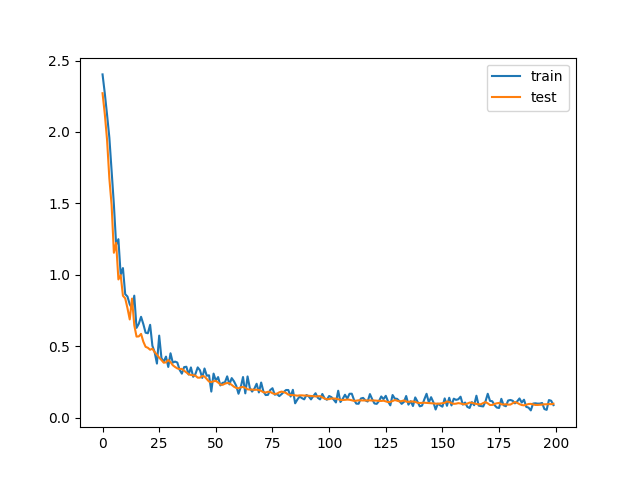
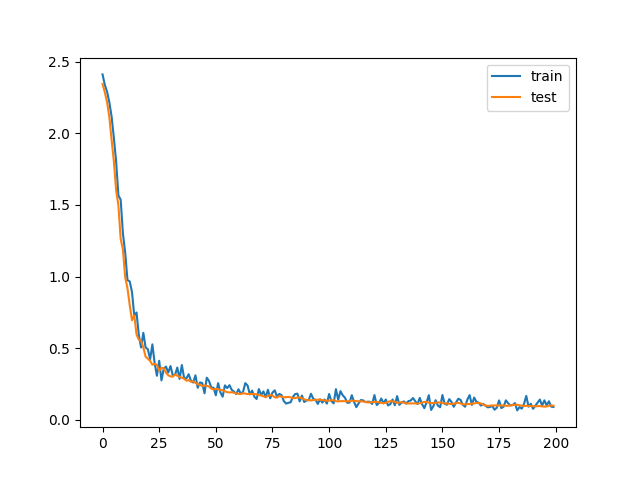
updated some internal functionality

diff --git a/network/core.py b/network/core.py
@@ -36,7 +36,7 @@ class Layer(ABC):
         pass
 
     @abstractmethod
-    def update_weights(self, dZ, optimizer, activation_next=None):
+    def update_weights(self, dZ, optimizer):
         pass
 
     @abstractmethod
@@ -64,18 +64,23 @@ class DenseLayer(Layer):
         return self.weights_initializer(prev_size, self.layer_size, (self.layer_size, prev_size)), \
                self.bias_initializer(self.layer_size, size=None)
 
-    def update_weights(self, dZ, optimizer, activation_next=None):
-        gradW, gradb, gradZ = self.get_gradients(dZ, activation_next=activation_next)
+    def update_weights(self, dZ, optimizer):
+        derivative = dZ
+        if self.activation_name == 'softmax':
+            pass
+        elif self.activation is not None:
+            derivative *= self.activation.derivative(self.cache[1])
+
+        gradW, gradb, gradZ = self.get_gradients(derivative)
         parameters = optimizer.apply_gradients(self.name, {'gradW': gradW, 'gradb': gradb})
         self.weights += parameters['gradW']
         self.bias += parameters['gradb']
         return gradZ
 
-    def get_gradients(self, dZ, activation_next=None):
+    def get_gradients(self, dZ):
         db = (1 / self.cache[0].shape[1]) * dZ.sum(axis=1)
         dW = (1 / self.cache[0].shape[1]) * (dZ @ self.cache[0].T)
-        derivative_values = activation_next.derivative(self.cache[0]) if activation_next is not None else self.cache[0]
-        next_dZ = (self.weights.T @ dZ) * derivative_values
+        next_dZ = (self.weights.T @ dZ)
         return dW, db, next_dZ
 
     def __call__(self, inputs):
@@ -84,9 +89,11 @@ class DenseLayer(Layer):
             self.weights, self.bias = self.build_weights(prev_size)
 
         h = (self.weights @ inputs) + self.bias[:, None]
-        self.cache = (inputs, h)
+
         result = h if (self.activation_name is None or self.activation_name not in AVAILABLE_ACTIVATIONS) \
             else self.activation(h)
+        self.cache = (inputs, result)
+
         return result
 
     def __str__(self):
@@ -132,14 +139,16 @@ class Conv2DLayer(Layer):
 
         Z = np.einsum('ijklmn, ojmn -> iokl', windows, self.weights)  # свёртка входных данных с фильтром
         Z += self.bias[None, :, None, None]
-        self.cache = (windows, inputs)
+
         result = Z if (self.activation_name is None or self.activation_name not in AVAILABLE_ACTIVATIONS) \
             else self.activation(Z)
+
+        self.cache = (windows, inputs, result)
         return result
 
-    def get_gradients(self, dZ, activation_next=None):
+    def get_gradients(self, dZ):
         padding = self.weights.shape[2] - 1 if not self.padding else self.padding_size[0]
-        input_windows, inputs = self.cache
+        input_windows, inputs, _ = self.cache
         windows_dZ = getWindows(dZ, inputs.shape, filter_size=self.weights.shape[2], padding=padding, stride=1,
                                 dilate=self.stride - 1)  # dilate отвечает за количество нулей между элементами, если
         # stride != 1
@@ -147,16 +156,18 @@ class Conv2DLayer(Layer):
 
         dW = np.einsum('ijklmn, iokl -> ojmn', input_windows, dZ)  # свёртка входных данных и dZ
         dZ_prev = np.einsum('ijklmn, jomn -> iokl', windows_dZ, weights_flipped)  # полная свёртка dZ и весов
-        derivative_values = activation_next.derivative(inputs) if activation_next is not None else np.ones(inputs.shape)
-        dZ_prev *= derivative_values
         db = np.sum(dZ, axis=(0, 2, 3))
         return dW, db, dZ_prev
 
-    def update_weights(self, dZ, optimizer, activation_next=None):
+    def update_weights(self, dZ, optimizer):
         """
         Собственно, обновление весов
         """
-        gradW, gradb, gradZ = self.get_gradients(dZ, activation_next=activation_next)
+        derivative = dZ
+        if self.activation is not None:
+            derivative *= self.activation.derivative(self.cache[2])
+
+        gradW, gradb, gradZ = self.get_gradients(derivative)
         parameters = optimizer.apply_gradients(self.name, {'gradW': gradW, 'gradb': gradb})
         self.weights += parameters['gradW']
         self.bias += parameters['gradb']
@@ -270,15 +281,7 @@ class NeuralNetwork(object):
         layers = list(self.layers_dict.keys())[::-1]
         dZ = self.loss.gradient_loss()
         for i, layer in enumerate(layers):
-            if i != len(layers) - 1:
-                try:
-                    activation = self.layers_dict[layers[i + 1]].activation
-                except AttributeError:  # на случай, если в слое не предусмотрена функция активации
-                    activation = None
-            else:
-                activation = None
-            dZ = self.layers_dict[layers[i]].update_weights(dZ=dZ, optimizer=self.optimizer,
-                                                            activation_next=activation)
+            dZ = self.layers_dict[layers[i]].update_weights(dZ=dZ, optimizer=self.optimizer)
 
     def add_layer(self, *layers):
         cur_length = len(self.layers_dict)
@@ -289,17 +292,13 @@ class NeuralNetwork(object):
         train_loss = []
         if val is not None:
             valid_loss = []
-        ind = np.arange(data.shape[0])
         for epoch in range(count_epochs):
-            np.random.shuffle(ind)  # перемешивание данных
-            data = data[ind]
-            labels = labels[ind]
+            rand_int = np.random.randint(data.shape[0], size=size_of_batch) # перемешивание данных
             print(f'epoch {epoch + 1}')
-            rand_int = np.random.randint(0, data.shape[0] - size_of_batch + 1)
             start = default_timer()
-            pred = self(data[rand_int:rand_int + size_of_batch])  # генерирование предсказаний
-            print(f'time = {default_timer() - start}')  # сколько времени занимала одна эпоха обучения
-            loss = self.loss.calculate_loss(labels[rand_int:rand_int + size_of_batch].T, pred)
+            pred = self(data[rand_int])  # генерирование предсказаний
+            print(f'time = {default_timer() - start}')
+            loss = self.loss.calculate_loss(labels[rand_int].T, pred)
             self.back_propagation()
             print(f'loss = {loss}', end=', ')
             train_loss.append(loss)
@@ -308,4 +307,8 @@ class NeuralNetwork(object):
                 val_loss = self.loss.calculate_loss(val[1].T, val_pred, without_memory=True)
                 valid_loss.append(val_loss)
                 print(f'validation loss = {val_loss}')
+                test_real = np.argmax(val[1].T, axis=0)
+                test_pred = np.argmax(val_pred, axis=0)
+                print(f'accuracy = {np.mean(test_pred == test_real)} ')
+
         return train_loss, valid_loss if val is not None else train_loss

diff --git a/network/activations.py b/network/activations.py
@@ -38,6 +38,23 @@ class ReLU(Activation):
         return np.where(other_input > 0, 1, 0)
 
 
+class LeakyReLU(Activation):
+
+    def __init__(self):
+        self.h = None
+        self.coeff = 0.01
+
+    def __call__(self, inputs):
+        self.h = inputs
+        return self._activation_(self.h)
+
+    def _activation_(self, inputs):
+        return np.where(inputs > 0, inputs, self.coeff * inputs)
+
+    def derivative(self, other_input):
+        return np.where(other_input > 0, 1, self.coeff)
+
+
 class Sigmoid(Activation):
 
     def __init__(self):
@@ -84,11 +101,6 @@ class Softmax(Activation):
         return exp_h / exp_h.sum(axis=0, keepdims=True)
 
     def derivative(self, other_input):
-        softmax_values = self._activation_(other_input)
-        result = np.zeros((other_input.shape[1], other_input.shape[1]))
-        for i in range(other_input.shape[1]):
-            for j in range(other_input.shape[1]):
-                result[i, j] = softmax_values[i] * (1 - softmax_values[i]) if i == j else \
-                    softmax_values[i] * softmax_values[j]
-        return result
+        s = other_input.reshape(-1, 1)
+        return np.diagflat(s) - np.dot(s, s.T)
 

diff --git a/main.py b/main.py
@@ -1,5 +1,5 @@
 import numpy as np
-from matplotlib import pyplot as plt
+import matplotlib.pyplot as plt
 
 
 from network.core import NeuralNetwork, DenseLayer, Conv2DLayer, FlattenLayer, MaxPoolingLayer
@@ -16,10 +16,9 @@ def make_model():
     conv2 = Conv2DLayer(8, filter_size=3, padding=True, activation='relu', stride=1)
     pool2 = MaxPoolingLayer()
     flatten = FlattenLayer()
-    h_1 = DenseLayer(256, 'relu')
+    h_1 = DenseLayer(128, 'relu')
     end_network = DenseLayer(11, 'softmax')
-    network = NeuralNetwork(flatten)
-    network.add_layer(h_1, end_network)
+    network = NeuralNetwork(conv, pool, conv2, pool2, flatten, h_1, end_network)
     network.optimizer = Adam(beta1=0.90, beta2=0.999, learning_rate=0.004)
     return network
 

diff --git a/network/utils.py b/network/utils.py
@@ -4,7 +4,8 @@ from network.activations import *
 
 
 def get_activation(str_name):
-    dict_activations = {'relu': ReLU(), 'tanh': Tanh(), 'sigmoid': Sigmoid(), 'softmax': Softmax()}
+    dict_activations = {'relu': ReLU(), 'tanh': Tanh(), 'sigmoid': Sigmoid(), 'softmax': Softmax(),
+                        'leaky_relu': LeakyReLU()}
     return dict_activations[str_name]
 
 

diff --git a/network/initializers.py b/network/initializers.py
@@ -31,3 +31,12 @@ class ZerosInitializer(BaseInitializer):
 
     def __call__(self, shape, size, prev_shape=None):
         return self.initializer(shape)
+
+
+class RandomNormal(BaseInitializer):
+
+    def __init__(self):
+        self.initializer = np.random.random
+
+    def __call__(self, shape, size, prev_shape=None):
+        return self.initializer(shape)

diff --git a/network/optimizers.py b/network/optimizers.py
@@ -3,6 +3,7 @@ import numpy as np
 Перенести на Tensor
 """
 
+
 class BaseOptimizer(object):
     """
     Входные данные для оптимизатора - список кортежей, состоящих из истории и градиента параметра.

diff --git a/network/losses.py b/network/losses.py
@@ -6,6 +6,7 @@ from abc import ABC, abstractmethod
 Перенести на Tensor
 """
 
+
 class Loss(ABC):
 
     def __init__(self):
@@ -49,5 +50,3 @@ class MSE(Loss):
 
     def gradient_loss(self):
         return (2 / self.labels.shape[1]) * (self.predictions - self.labels)
-
-
